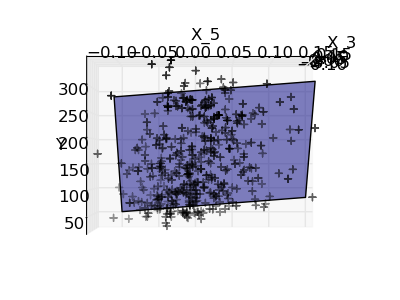
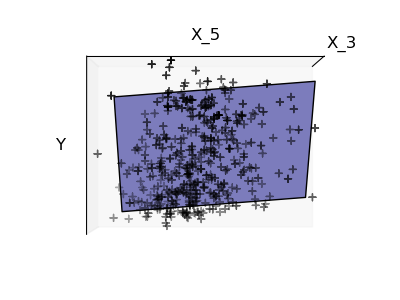
Bias/variance tradeoff in ridge

diff --git a/tutorial/plot_ridge_variance.py b/tutorial/plot_ridge_variance.py
@@ -1,0 +1,35 @@
+import numpy as np
+import pylab as pl
+
+from scikits.learn import linear_model
+
+X_train = np.c_[ .5, 1].T
+y_train = [.5, 1]
+X_test = np.c_[ 0, 2].T
+
+fig = pl.figure(1, figsize=(4, 3))
+pl.clf()
+ax = pl.axes([.12, .12, .8, .8])
+
+np.random.seed(0)
+ridge = linear_model.Ridge(alpha=.1)
+
+for _ in range(6):
+    this_X = .1*np.random.normal(size=(2, 1)) + X_train
+    ridge.fit(this_X, y_train)
+
+    ax.plot(X_test, ridge.predict(X_test), color='.5')
+    ax.scatter(this_X, y_train, s=3, c='.5', marker='o', zorder=10)
+
+ridge.fit(X_train, y_train)
+
+ax.plot(X_test, ridge.predict(X_test), linewidth=2)
+ax.scatter(X_train, y_train, s=30, c='k', marker='+', zorder=10)
+
+ax.set_xticks(())
+ax.set_yticks(())
+ax.set_xlabel('X')
+ax.set_ylabel('y')
+ax.set_xlim(0, 2)
+pl.savefig('ridge_variance.png')
+

diff --git a/tutorial/plot_ols_variance.py b/tutorial/plot_ols_variance.py
@@ -1,0 +1,35 @@
+import numpy as np
+import pylab as pl
+
+from scikits.learn import linear_model
+
+X_train = np.c_[ .5, 1].T
+y_train = [.5, 1]
+X_test = np.c_[ 0, 2].T
+
+fig = pl.figure(1, figsize=(4, 3))
+pl.clf()
+ax = pl.axes([.12, .12, .8, .8])
+
+np.random.seed(0)
+ols = linear_model.LinearRegression()
+
+for _ in range(6):
+    this_X = .1*np.random.normal(size=(2, 1)) + X_train
+    ols.fit(this_X, y_train)
+
+    ax.plot(X_test, ols.predict(X_test), color='.5')
+    ax.scatter(this_X, y_train, s=3, c='.5', marker='o', zorder=10)
+
+ols.fit(X_train, y_train)
+
+ax.plot(X_test, ols.predict(X_test), linewidth=2)
+ax.scatter(X_train, y_train, s=30, c='k', marker='+', zorder=10)
+
+ax.set_xticks(())
+ax.set_yticks(())
+ax.set_xlabel('X')
+ax.set_ylabel('y')
+ax.set_xlim(0, 2)
+pl.savefig('ols_variance.png')
+

diff --git a/tutorial/plot_ols_3d.py b/tutorial/plot_ols_3d.py
@@ -30,6 +30,9 @@ ax.plot_surface(np.array([[-.1, -.1], [.15, .15]]),
 ax.set_xlabel('X_3')
 ax.set_ylabel('X_5')
 ax.set_zlabel('Y')
+ax.set_xticks(())
+ax.set_yticks(())
+ax.set_zticks(())
 pl.savefig('diabetes_ols_diag.png')
 ax.elev = -.5
 ax.azim = 0
@@ -38,6 +41,4 @@ ax.elev = -.5
 ax.azim = 90
 pl.savefig('diabetes_ols_x2.png')
 
-
-pl.show()
 

diff --git a/tutorial/supervised_learning.rst b/tutorial/supervised_learning.rst
@@ -72,7 +72,7 @@ the estimator- the observation with the closest feature vector.
     >>> from scikits.learn.neighbors import NeighborsClassifier
     >>> knn = NeighborsClassifier()
     >>> knn.fit(X_train, y_train)
-    NeighborsClassifier(n_neighbors=5, window_size=1, algorithm='auto')
+    NeighborsClassifier(n_neighbors=5, leaf_size=20, algorithm='auto')
     >>> knn.predict(X_test)
     array([1, 2, 1, 0, 0, 0, 2, 1, 2, 0])
     >>> y_test
@@ -112,8 +112,11 @@ Linear model: from regression to sparsity
     The task at hand is to predict disease prediction from physiological
     variables. 
 
+Linear regression
+------------------
+
 .. image:: plot_ols_1.png
-   :scale: 44
+   :scale: 50
    :align: right
 
 Linear models: :math:`y = \beta X + \epsilon`
@@ -126,13 +129,94 @@ Linear models: :math:`y = \beta X + \epsilon`
 :: 
 
     >>> from scikits.learn import linear_model
-    >>> clf = linear_model.LinearRegression()
-    >>> clf.fit(X_train, y_train)
+    >>> regr = linear_model.LinearRegression()
+    >>> regr.fit(X_train, y_train)
     LinearRegression(fit_intercept=True)
-    >>> print clf.coef_
+    >>> print regr.coef_
     [  3.03499549e-01  -2.37639315e+02   5.10530605e+02   3.27736980e+02
       -8.14131709e+02   4.92814588e+02   1.02848452e+02   1.84606489e+02
        7.43519617e+02   7.60951722e+01]
+    
+    >>> # The mean square error
+    >>> np.mean((regr.predict(X_test) - y_test)**2)
+    2004.5676026898223
+
+    >>> # Explained variance score: 1 is perfect prediction
+    >>> regr.score(X_test, y_test)
+    0.58507530226905713
+
+
+Shrinkage 
+----------
+
+If there are few data points per dimension, noise in the observations
+induces high variance:
+
+.. image:: ols_variance.png
+   :scale: 70
+   :align: right
+
+::
+
+    >>> X = np.c_[ .5, 1].T
+    >>> y = [.5, 1]
+    >>> test = np.c_[ 0, 2].T
+    >>> regr = linear_model.LinearRegression()
+    
+    >>> import pylab as pl
+    >>> pl.figure() # doctest: +SKIP
+
+    >>> np.random.seed(0)
+    >>> for _ in range(6): # doctest: +SKIP
+    ...    this_X = .1*np.random.normal(size=(2, 1)) + X
+    ...    regr.fit(X, y)
+    ...    pl.plot(test, regr.predict(test))
+    ...    pl.scatter(this_X, y, s=3) 
+
+
+
+A solution, in high-dimensional statistical learning, is to *srhink* the
+regression coefficients to zero: any two randomly chosen set of
+observations are likely to be uncorrelated. This is called *ridge*
+regression:
+
+.. image:: ridge_variance.png
+   :scale: 70
+   :align: right
+
+::
+
+    >>> regr = linear_model.Ridge(alpha=.1)
+
+    >>> pl.figure() # doctest: +SKIP
+
+    >>> np.random.seed(0)
+    >>> for _ in range(6): # doctest: +SKIP
+    ...    this_X = .1*np.random.normal(size=(2, 1)) + X
+    ...    regr.fit(this_X, y)
+    ...    pl.plot(test, regr.predict(test))
+    ...    pl.scatter(this_X, y, s=3)
+
+This is an example of **bias/variance tradeoff**: the larger the ridge
+`alpha` parameter, the higher the bias and the lower the variance.
+
+We can choose `alpha` to minimize left out error, this time using the
+diabetes dataset, rather than our synthetic data:: 
+
+    >>> alphas = np.logspace(-4, -1, 6)
+    >>> print [regr.fit(X_train, y_train, alpha=alpha
+    ...             ).score(X_test, y_test) for alpha in alphas]
+    [0.58511106838835292, 0.58520730154446743, 0.58546775406984897, 0.58555120365039137, 0.58307170855541623, 0.570589994372801]
+
+
+.. note::
+
+    Capturing in the fitted parameters noise that prevents the model to
+    generalize to new data is called **overfitting**. The bias introduced
+    by the ridge regression is called a **regularization**.
+
+Sparsity
+----------
 
 
 .. |diabetes_ols_diag| image:: diabetes_ols_diag.png
@@ -161,6 +245,7 @@ feature 3.
    dimensions (10 feature dimensions, and one of the target variable). It
    is hard to develop an intuition on such representation, but it may be
    useful to keep in mind that it would be a fairly *empty* space.
+
 
 
 Support vector machines
